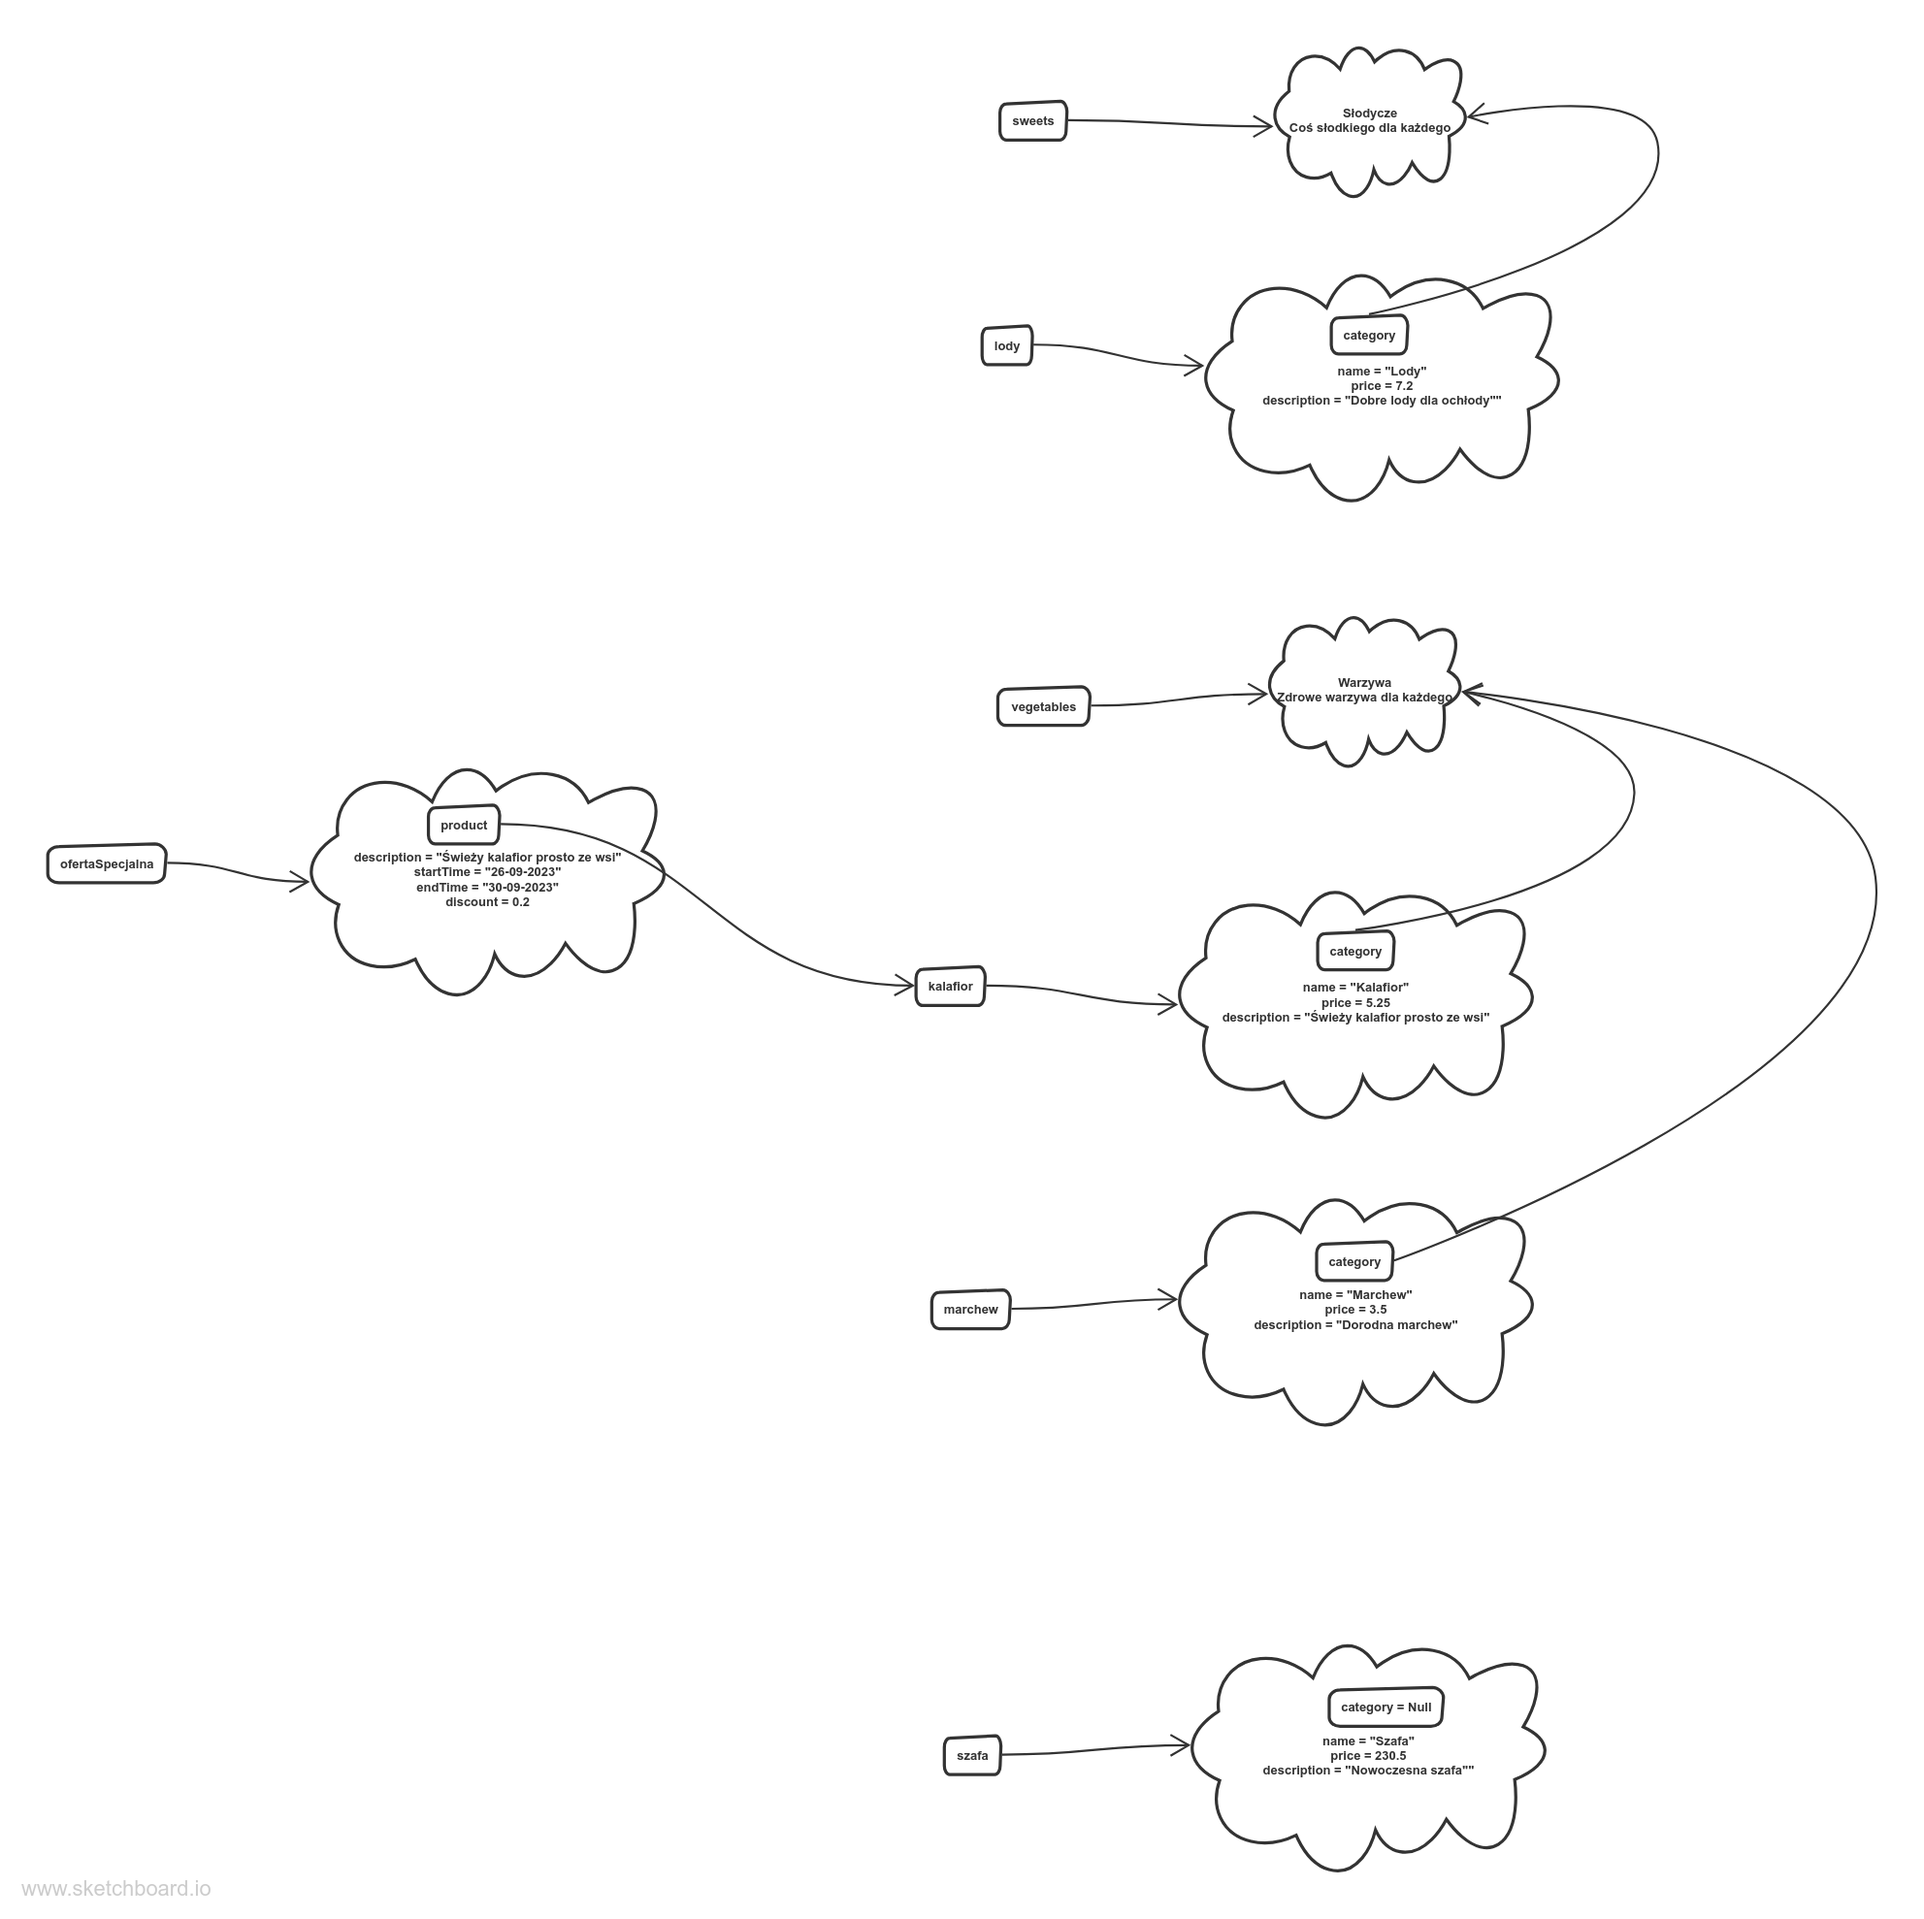
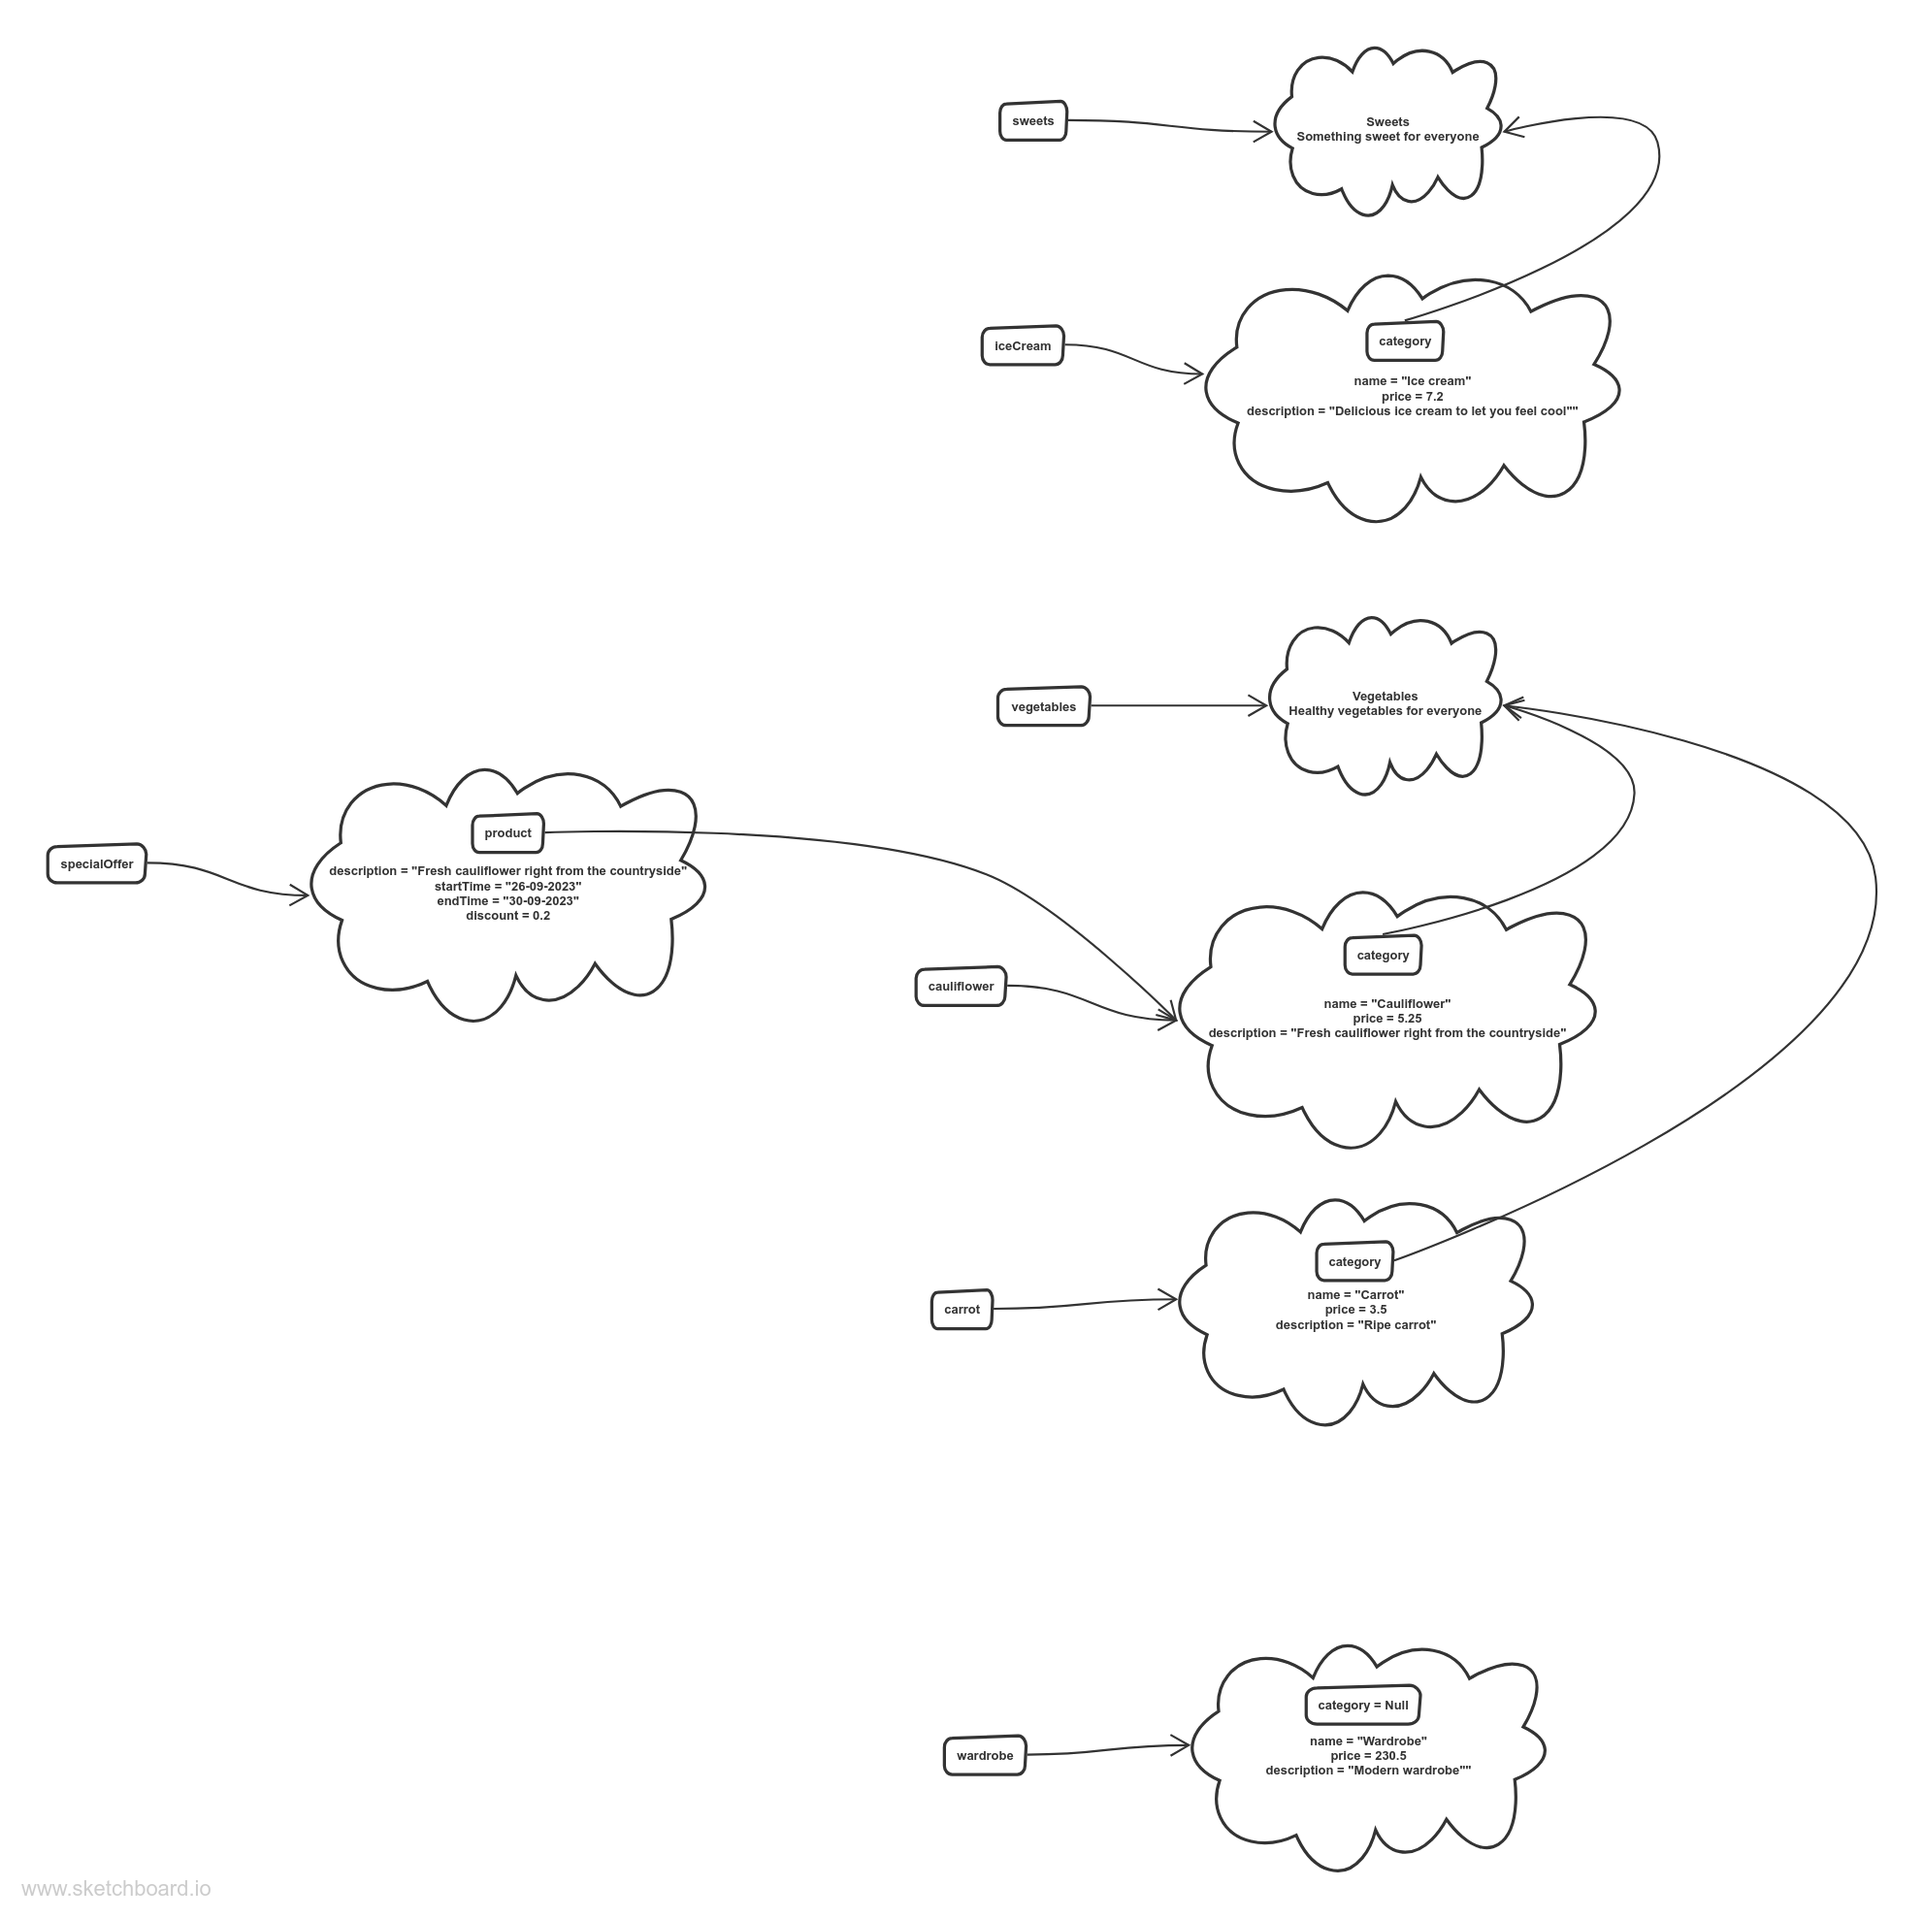
Naniosłem poprawki wskazane przez Marcina.

diff --git a/src/main/java/pl/javastart/task/Main.java b/src/main/java/pl/javastart/task/Main.java
@@ -4,27 +4,27 @@ public class Main {
 
     public static void main(String[] args) {
 
-        Category vegetables = new Category("Warzywa", "Zdrowe warzywa dla każdego");
-        Category sweets = new Category("Słodycze", "Coś słodkiego dla każdego");
+        Category vegetables = new Category("Vegetables", "Healthy vegetables for everyone");
+        Category sweets = new Category("Sweets", "Something sweet for everyone");
 
-        Product kalafior = new Product("Kalafior", 5.25, "Świeży kalafior prosto ze wsi", vegetables);
-        Product marchew = new Product("Marchew", 3.5, "Dorodna marchew", vegetables);
+        Product cauliflower = new Product("Cauliflower", 5.25, "Fresh cauliflower right from the countryside", vegetables);
+        Product carrot = new Product("Carrot", 3.5, "Ripe carrot", vegetables);
 
-        Product lody = new Product("Lody", 7.2, "Dobre lody dla ochłody", sweets);
+        Product iceCream = new Product("Ice cream", 7.2, "Delicious ice cream to let you feel cool", sweets);
 
-        Product szafa = new Product("Szafa", 230.5, "Nowoczesna szafa", null);
+        Product wardrobe = new Product("Wardrobe", 230.5, "Modern wardrobe", null);
 
-        SpecialOffer ofertaSpecjalna = new SpecialOffer(kalafior, kalafior.description,
+        SpecialOffer specialOffer = new SpecialOffer(cauliflower, cauliflower.description,
                 "26-09-2023", "30-09-2023", 0.2);
 
-        System.out.println("Produkt nr 1: \n" +
-                kalafior.printInfo());
-        System.out.println("\n\nProdukt nr 2: \n" +
-                marchew.printInfo());
-        System.out.println("\n\nProdukt nr 3: \n" +
-                lody.printInfo());
-        System.out.println("\n\nProdukt nr 4: \n" +
-                szafa.printInfo());
-        
+        System.out.println("Product No. 1: \n" +
+                cauliflower.printInfo());
+        System.out.println("\n\nProduct No. 2: \n" +
+                carrot.printInfo());
+        System.out.println("\n\nProduct No. 3: \n" +
+                iceCream.printInfo());
+        System.out.println("\n\nProduct No. 4: \n" +
+                wardrobe.printInfo());
+
     }
 }

diff --git a/src/main/java/pl/javastart/task/Product.java b/src/main/java/pl/javastart/task/Product.java
@@ -17,9 +17,9 @@ public class Product {
 
     public String printInfo() {
         Formatter formatter = new Formatter();
-        formatter.format("\t%-20s%30s\n\t%-20s%28.2fzł\n\t%-20s%30s\n\t%-20s%30s",
-                "Nazwa produktu:", name, "Cena:", price, "Opis:", description,
-                "Kategoria:", category == null ? "Brak kategorii" : category.name);
+        formatter.format("\t%-20s%50s\n\t%-20s%48.2fzł\n\t%-20s%50s\n\t%-20s%50s",
+                "Product name:", name, "Price:", price, "Description:", description,
+                "Category:", category == null ? "No category assigned" : category.name);
         return formatter.toString();
 
     }
